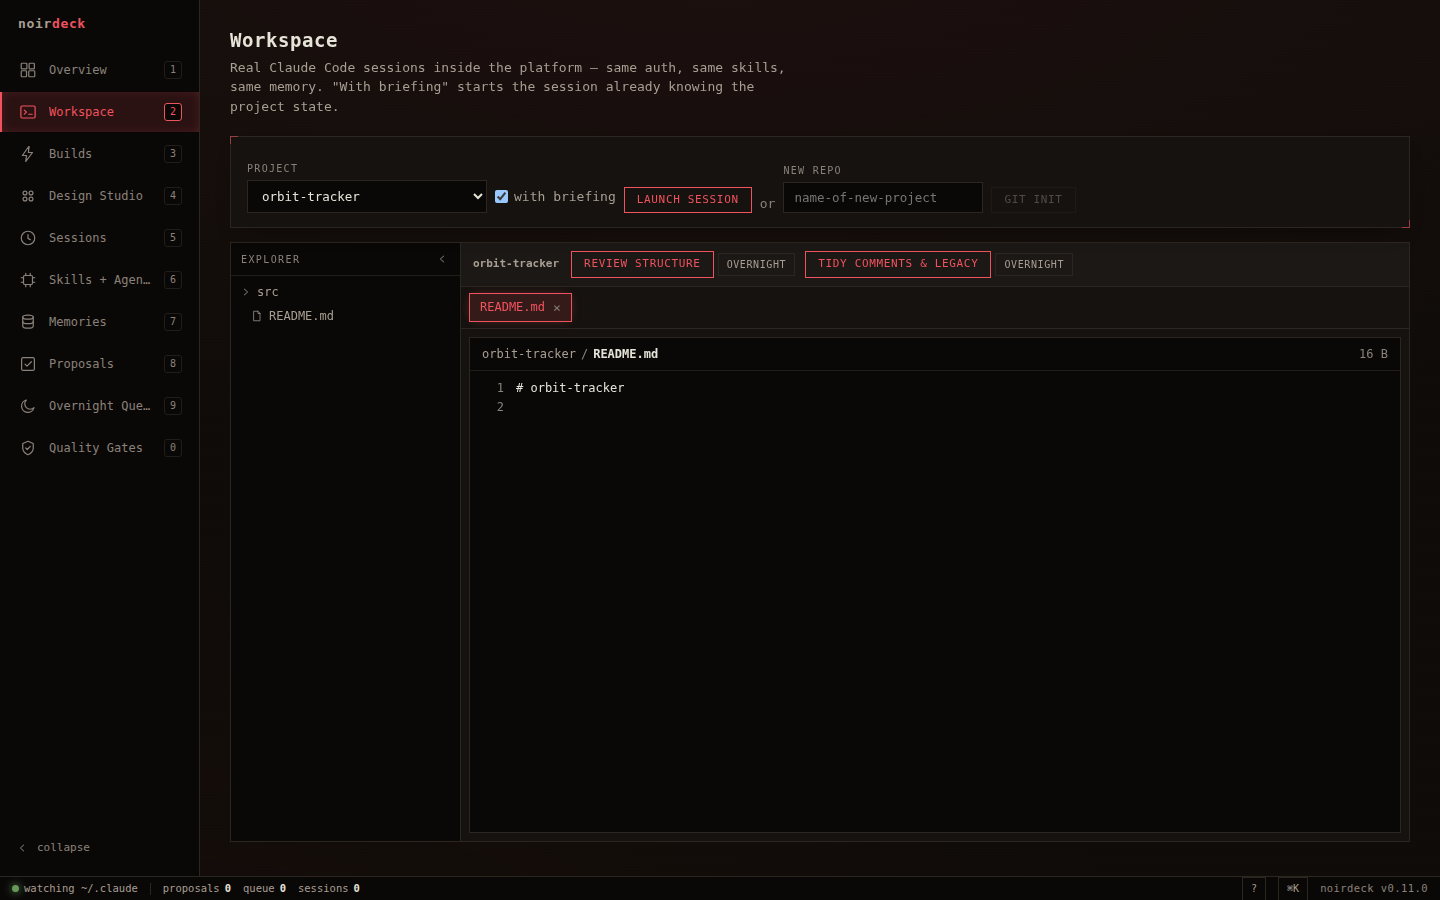
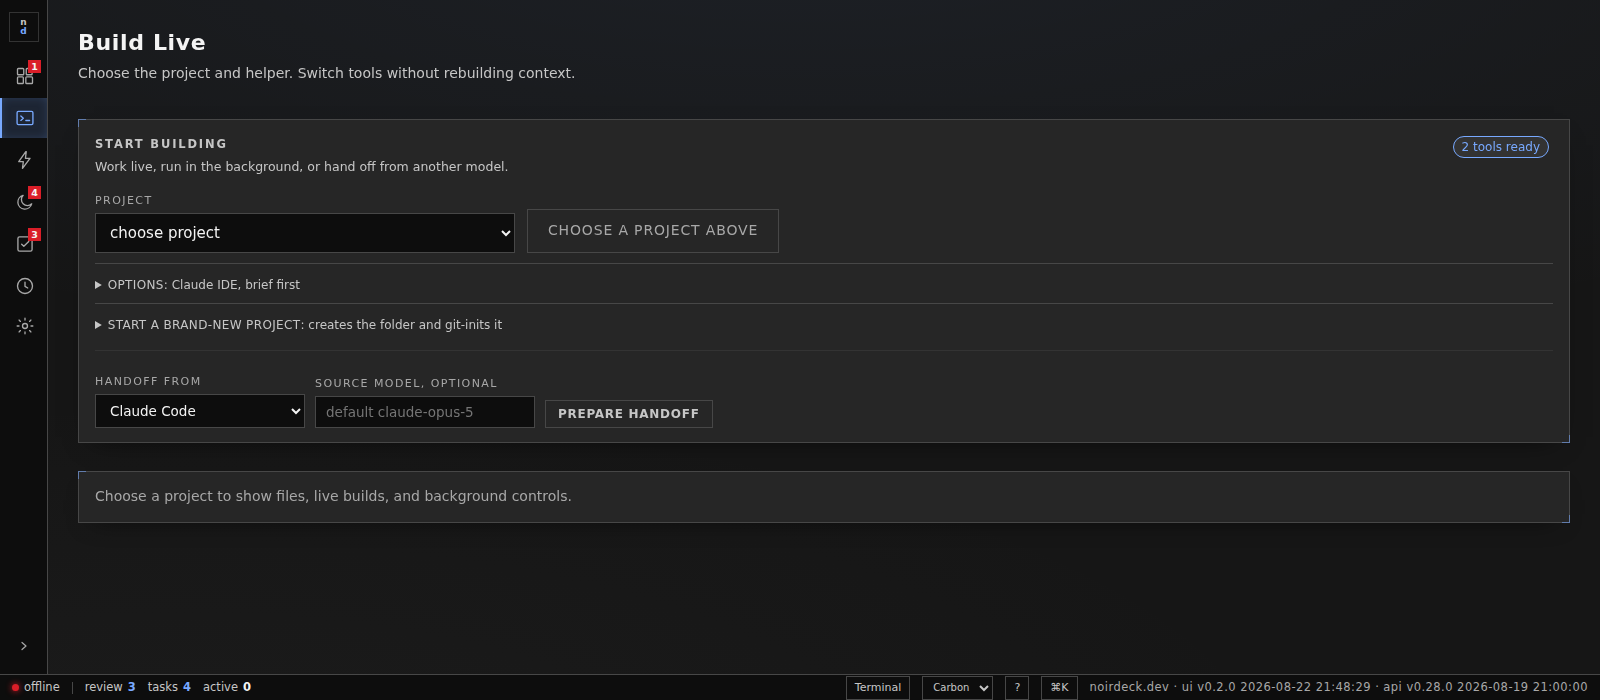
LICENCE v1.2 liability caps, current screenshots, and a remembered terminal panel
LICENCE clause 11.2. The free personal licence is now capped at what has been
paid for it, which is nothing, rather than at a fixed NZ$100; a commercial
licence is capped at NZ$1.00 for each fully paid-up twelve month term, or part of
one, in force when the problem arose. Clause 11.3 is unchanged and still carves
out liability that cannot lawfully be limited.

Screenshots were captured before the interface rebuild and showed a colour scheme
the product no longer has. Regenerated against synthetic data, and the README now
shows the same screen in two kits, because the claim is that a kit changes shape
and density rather than only hue, and one image cannot show that.

The terminal panel is remembered between visits. An IDE that forgets whether its
panel was open is irritating to use, and it also could not be screenshotted:
ops/preview-shots.py gains --kit, --mode, --density and --dock, applied by
seeding storage, since the app re-stamps the appearance attributes from storage
as soon as it mounts and a static attribute edit would be reverted.

The screenshot fixtures advertised an old version in the status bar of every
published image. The version is now read from the package.

CI lints ops/ as well as backend/, which is how a formatting drift there went
unnoticed long enough to appear in an unrelated commit.

diff --git a/frontend/src/App.jsx b/frontend/src/App.jsx
@@ -62,14 +62,24 @@ const VIEWS = [...PRIMARY_VIEWS, ...ADVANCED_VIEWS, ['settings', 'Settings', Set
 
 const SIDEBAR_KEY = 'nd.sidebar'
 
-// Read once, at module scope: the dock should open at the height it was left,
-// not jump to it a frame later.
+const DOCK_KEY = 'nd.dockOpen'
+
+// Read once, at module scope: the dock should come back at the size and state it
+// was left in, not jump to them a frame after mount.
 const DEFAULT_DOCK_HEIGHT = (() => {
   try {
     const stored = Number.parseInt(localStorage.getItem('nd.panelH'), 10)
     return Number.isFinite(stored) ? stored : 300
   } catch {
     return 300
+  }
+})()
+
+const DOCK_OPEN_AT_START = (() => {
+  try {
+    return localStorage.getItem(DOCK_KEY) === '1'
+  } catch {
+    return false
   }
 })()
 
@@ -92,9 +102,18 @@ export default function App() {
   // The dock is the shell's own terminal. Build Live already fills the viewport
   // with one, so the dock stays out of its way there rather than running a
   // second emulator over the top of the first.
-  const [dockOpen, setDockOpen] = useState(false)
+  const [dockOpen, setDockOpen] = useState(DOCK_OPEN_AT_START)
   const [dockHeight, setDockHeight] = useState(DEFAULT_DOCK_HEIGHT)
-  const toggleDock = useCallback(() => setDockOpen((open) => !open), [])
+  const toggleDock = useCallback(() => {
+    setDockOpen((open) => {
+      try {
+        localStorage.setItem(DOCK_KEY, open ? '0' : '1')
+      } catch {
+        // The panel still toggles; only the memory of it is lost.
+      }
+      return !open
+    })
+  }, [])
   const [paletteOpen, setPaletteOpen] = useState(false)
   const [keysOpen, setKeysOpen] = useState(false)
   const [sidebarExpanded, setSidebarExpanded] = useState(() => {

diff --git a/ops/preview-shots.py b/ops/preview-shots.py
@@ -20,6 +20,7 @@ a `type="module"` (deferred), so the stubs are always installed first.
 Usage:
     python3 ops/preview-shots.py --out ~/noirdeck-shots
     python3 ops/preview-shots.py --out ~/noirdeck-shots --views overview,secrets
+    python3 ops/preview-shots.py --out ~/noirdeck-shots --kit claude --views overview
 """
 
 from __future__ import annotations
@@ -28,12 +29,17 @@ import argparse
 import functools
 import http.server
 import json
+import re
 import socketserver
 import subprocess
 import threading
 from pathlib import Path
 
 REPO = Path(__file__).resolve().parents[1]
+
+# Read from the package rather than hardcoded: a fixture version goes stale
+# silently, and it is rendered into the status bar of every published screenshot.
+VERSION = re.search(r'VERSION = "([^"]+)"', (REPO / "backend" / "noirdeck" / "version.py").read_text()).group(1)
 DIST = REPO / "frontend" / "dist"
 CHROMIUM = "/snap/bin/chromium"  # snap build is the only working one on WSL
 
@@ -43,7 +49,7 @@ CHROMIUM = "/snap/bin/chromium"  # snap build is the only working one on WSL
 FIXTURES: dict[str, object] = {
     "/api/health": {
         "status": "ok",
-        "version": "0.26.0",
+        "version": VERSION,
         "server_started_at": "2026-08-19T09:00:00+00:00",
         "server_now": "2026-08-19T09:42:00+00:00",
         "frontend_dir": "/opt/noirdeck/web",
@@ -534,6 +540,15 @@ STUB_TEMPLATE = """<script>
 // document order; the bundle is type="module" and therefore deferred).
 (function () {
   var F = %s;
+  var PREFS = %s;
+  // Appearance and panel state are read from storage by the app, so seeding it
+  // here is how a shot chooses a kit. Setting the attributes directly would not
+  // survive: the app re-stamps them from storage on mount.
+  try {
+    for (var k in PREFS) localStorage.setItem(k, PREFS[k]);
+  } catch (e) {
+    // Storage refused. The shot falls back to the built-in defaults.
+  }
   // The SPA keeps an EventSource open forever, which stops headless chromium
   // ever reaching network idle. A no-op stub is what makes screenshots possible.
   window.EventSource = function () {
@@ -559,12 +574,18 @@ STUB_TEMPLATE = """<script>
 """
 
 
+# Filled in by main() before the server starts. Seeded into localStorage ahead of
+# the bundle, which is the only way to choose a kit: the app re-stamps the
+# appearance attributes from storage as soon as it mounts.
+PREFS: dict[str, str] = {}
+
+
 class Handler(http.server.SimpleHTTPRequestHandler):
     def do_GET(self):  # noqa: N802 - stdlib naming
         path = self.path.split("?")[0]
         if path in ("/", "/index.html"):
             html = (DIST / "index.html").read_text()
-            stub = STUB_TEMPLATE % json.dumps(FIXTURES)
+            stub = STUB_TEMPLATE % (json.dumps(FIXTURES), json.dumps(PREFS))
             html = html.replace("<head>", "<head>" + stub, 1)
             data = html.encode()
             self.send_response(200)
@@ -625,7 +646,20 @@ def main() -> int:
     ap.add_argument("--port", type=int, default=8899)
     ap.add_argument("--width", type=int, default=1600)
     ap.add_argument("--height", type=int, default=1000)
+    ap.add_argument("--kit", default="carbon", choices=["carbon", "fluent", "claude"])
+    ap.add_argument("--mode", default="dark", choices=["dark", "light"])
+    ap.add_argument("--density", default="comfortable", choices=["comfortable", "compact"])
+    ap.add_argument("--dock", action="store_true", help="open the terminal panel")
     args = ap.parse_args()
+
+    PREFS.update(
+        {
+            "nd.kit": args.kit,
+            "nd.mode": args.mode,
+            "nd.density": args.density,
+            "nd.dockOpen": "1" if args.dock else "0",
+        }
+    )
 
     if not (DIST / "index.html").is_file():
         print(f"no build at {DIST}: run `make frontend` first")
@@ -639,7 +673,7 @@ def main() -> int:
 
     httpd = serve(args.port)
     port = httpd.server_address[1]
-    print(f"serving {DIST} on 127.0.0.1:{port}")
+    print(f"serving {DIST} on 127.0.0.1:{port}  kit={args.kit} mode={args.mode} dock={args.dock}")
     try:
         ok = 0
         for view in [v.strip() for v in args.views.split(",") if v.strip()]:

diff --git a/ops/dev-verify-proxy.py b/ops/dev-verify-proxy.py
@@ -8,6 +8,7 @@ Usage: python3 ops/dev-verify-proxy.py &  then
   chromium --headless=new --virtual-time-budget=8000 --screenshot=out.png \
     http://127.0.0.1:8899/#builds
 """
+
 import http.server
 import sys
 import time
@@ -55,8 +56,10 @@ class H(http.server.BaseHTTPRequestHandler):
             # /__click<real-path>: serve the SPA shell with a late script that
             # opens the intake panel, so headless can capture the expanded state.
             path = "/"
-            inject = (b'<script>setTimeout(function(){var b=document.querySelector'
-                      b'(".toolbar button");if(b)b.click()},1500)</script>')
+            inject = (
+                b"<script>setTimeout(function(){var b=document.querySelector"
+                b'(".toolbar button");if(b)b.click()},1500)</script>'
+            )
         req = urllib.request.Request(UP + path, headers={"Host": "127.0.0.1:4747"})
         try:
             with urllib.request.urlopen(req, timeout=20) as r:

diff --git a/README.md b/README.md
@@ -255,6 +255,14 @@ Every combination is verified in CI before it ships: each text token clears its
 WCAG ratio on every surface, and the accent must be perceptually distinct from
 the alarm colour, so a kit can never make an alarm look like ordinary UI.
 
+The same screen in Fluent and in Claude. What changes is not only hue: corner
+radius, row height, spacing and type change together, which is why these are
+kits rather than colour schemes.
+
+![the Fluent kit](docs/screenshots/kit-fluent.png)
+
+![the Claude kit](docs/screenshots/kit-claude.png)
+
 ![workspace](docs/screenshots/workspace.png)
 
 ## Keyboard
